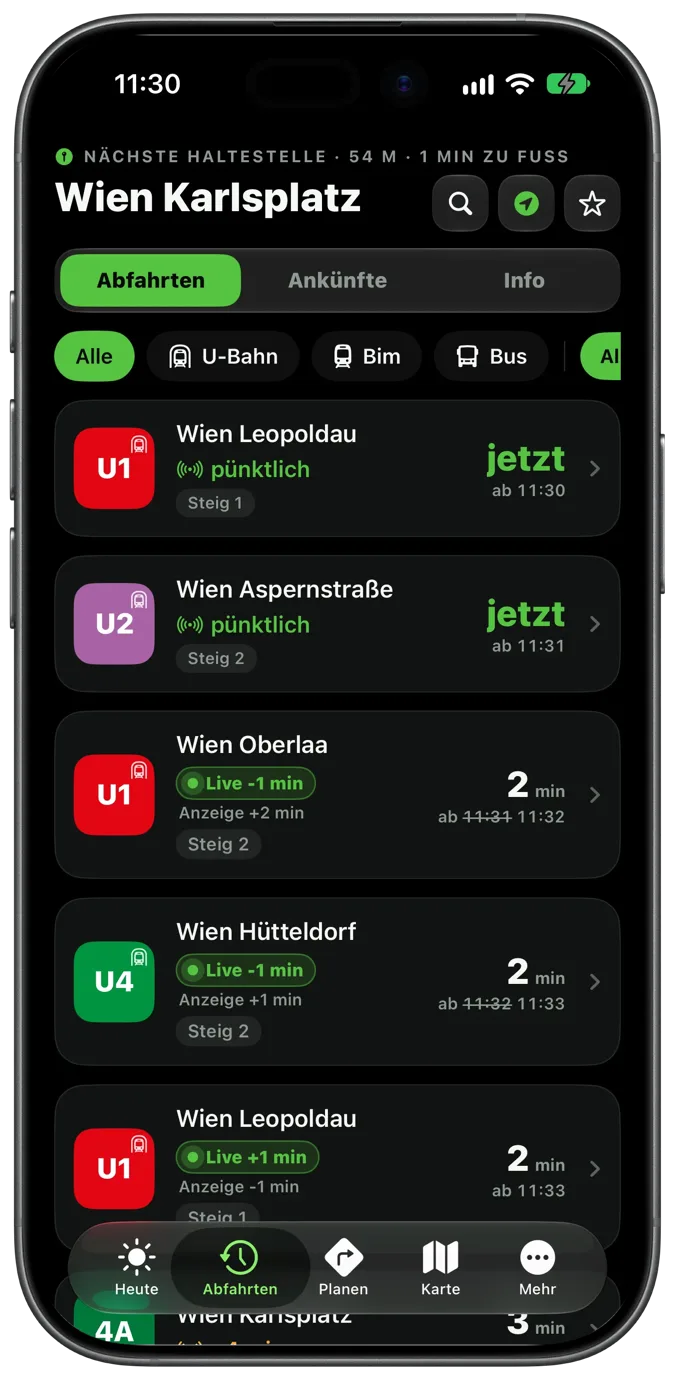
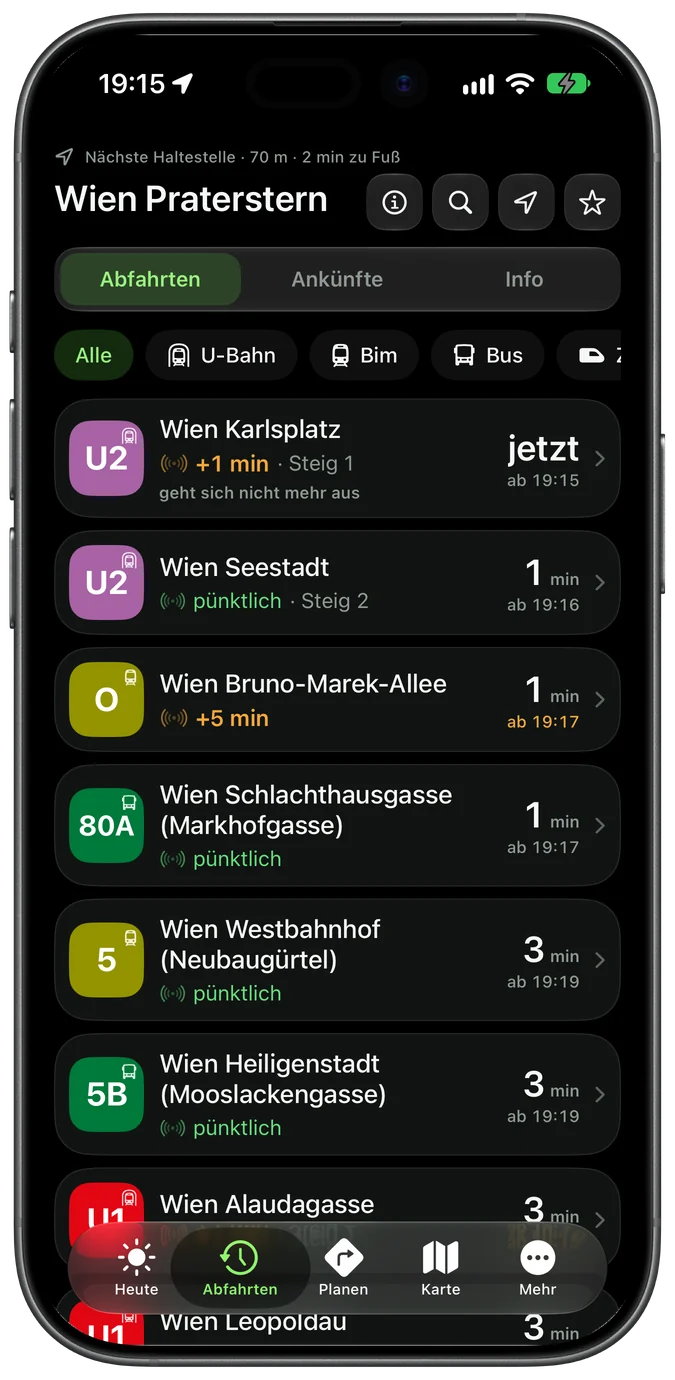
feat(oeffigo): new iPhone 17 Pro shots from Praterstern
Today, departures, the trip view and a connection search, taken from the
current build and framed in the iPhone bezel.

diff --git a/src/data/oeffigo.ts b/src/data/oeffigo.ts
@@ -91,34 +91,34 @@ export const oeffigo: OeffigoContent = {
     {
       src: "/projects/oeffigo/app-today.webp",
       alt: {
-        en: "ÖffiGo Today on iPhone: the next departures near Wien Praterstern on the O tram, U2 and U1, with the nearby map below.",
-        de: "ÖffiGo Heute auf dem iPhone: die nächsten Abfahrten bei Wien Praterstern mit O-Wagen, U2 und U1, darunter die Umgebungskarte.",
+        en: "ÖffiGo Today on iPhone near Wien Praterstern: the next two U2 trains and the O tram with live delays, a saved route and the nearby map.",
+        de: "ÖffiGo Heute auf dem iPhone beim Wiener Praterstern: die nächsten zwei U2 und der O-Wagen mit Live-Verspätung, eine gespeicherte Route und die Umgebungskarte.",
       },
       caption: { en: "Today", de: "Heute" },
     },
     {
       src: "/projects/oeffigo/app-departures.webp",
       alt: {
-        en: "ÖffiGo departures at Wien Karlsplatz: U1, U2 and U4 with platform and minutes until departure.",
-        de: "ÖffiGo Abfahrten am Wiener Karlsplatz: U1, U2 und U4 mit Steig und Minuten bis zur Abfahrt.",
+        en: "ÖffiGo departures at Wien Praterstern: U2, O tram, buses 80A and 5B and tram 5, each marked on time or with its delay.",
+        de: "ÖffiGo Abfahrten am Wiener Praterstern: U2, O-Wagen, die Busse 80A und 5B und die Linie 5, jeweils mit pünktlich oder Verspätung.",
       },
       caption: { en: "Departures", de: "Abfahrten" },
     },
     {
-      src: "/projects/oeffigo/app-live.webp",
+      src: "/projects/oeffigo/app-trip.webp",
       alt: {
-        en: "ÖffiGo Today near Wien Karlsplatz: the next U4, U1 and U2, with the nearby map below.",
-        de: "ÖffiGo Heute beim Wiener Karlsplatz: die nächste U4, U1 und U2, darunter die Umgebungskarte.",
+        en: "ÖffiGo trip view of a U2 to Karlsplatz: the stops after Praterstern with their times, the delay shown at the stop just passed.",
+        de: "ÖffiGo Fahrtverlauf einer U2 zum Karlsplatz: die Halte nach dem Praterstern mit Zeiten, die Verspätung beim gerade passierten Halt.",
       },
-      caption: { en: "Near you", de: "In der Nähe" },
+      caption: { en: "Trip", de: "Fahrtverlauf" },
     },
     {
-      src: "/projects/oeffigo/app-welcome.webp",
+      src: "/projects/oeffigo/app-routes.webp",
       alt: {
-        en: "ÖffiGo route search: start at the current location, pick a destination, find connections.",
-        de: "ÖffiGo Routensuche: Start am aktuellen Standort, Ziel wählen, Verbindungen finden.",
+        en: "ÖffiGo connections from Wien Praterstern to Wien Schönbrunn: three options via U1 and U4 with live status, transfer time and fare.",
+        de: "ÖffiGo Verbindungen vom Wiener Praterstern nach Wien Schönbrunn: drei Varianten über U1 und U4 mit Live-Status, Umstiegszeit und Preis.",
       },
-      caption: { en: "Where to?", de: "Wohin geht's?" },
+      caption: { en: "Connections", de: "Verbindungen" },
     },
   ],
   support: {
